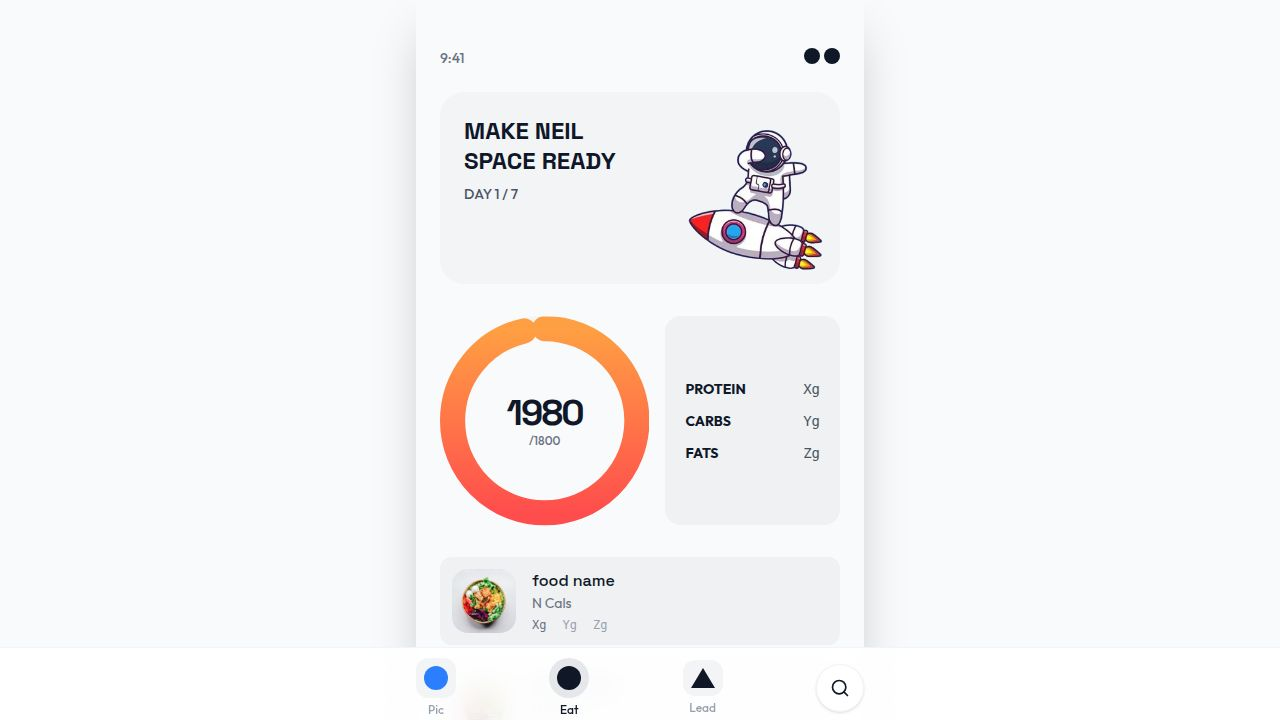
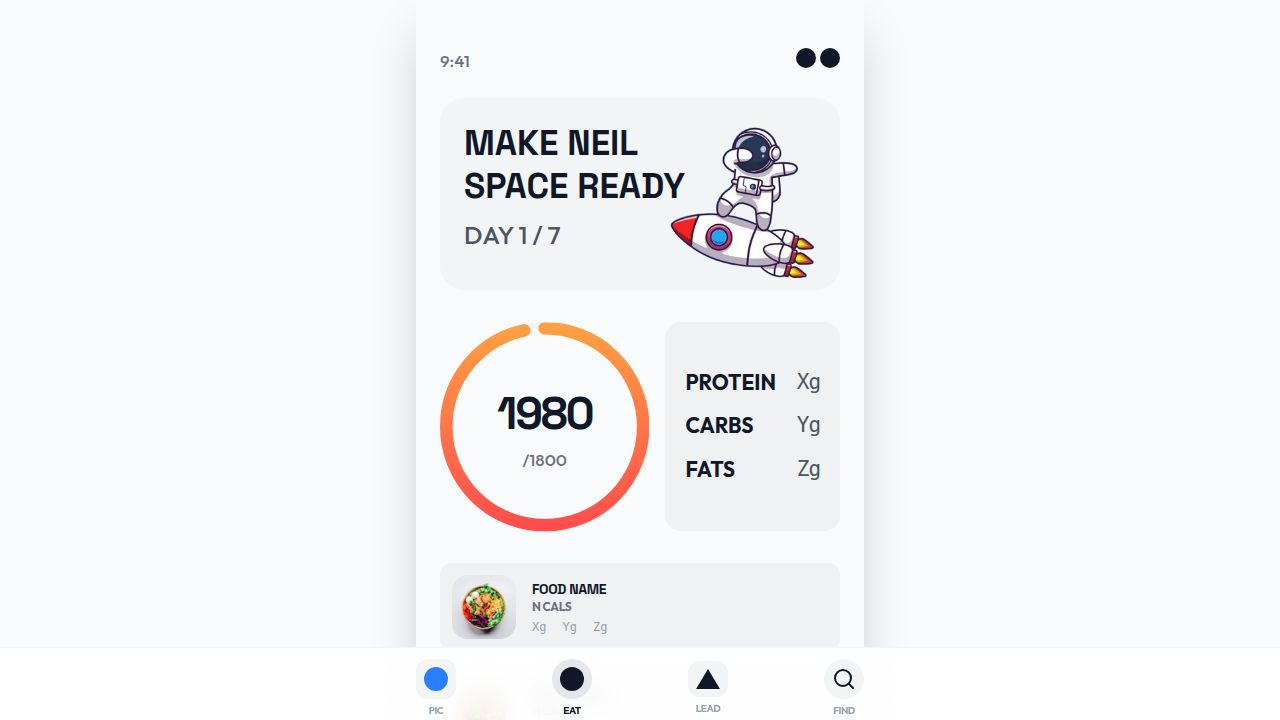
Increase text sizes and scale astronaut to match calorie ring
Update font sizes for key headers, macronutrients, and calorie indicators on the home page, and adjust the astronaut's size to align with the calorie ring.

Replit-Commit-Author: Agent
Replit-Commit-Session-Id: 4d0cfeb5-3eb1-4dbc-bee7-5a7defe6f9c4
Replit-Commit-Checkpoint-Type: full_checkpoint
Replit-Commit-Event-Id: fd141c70-e349-4e3c-b390-6372ab5364bb
Replit-Commit-Screenshot-Url: https://storage.googleapis.com/screenshot-production-us-central1/33be1d1f-940d-45db-88c5-0670a6a43629/4d0cfeb5-3eb1-4dbc-bee7-5a7defe6f9c4/FdHRHuK
Replit-Helium-Checkpoint-Created: true

diff --git a/client/src/pages/home.tsx b/client/src/pages/home.tsx
@@ -22,12 +22,12 @@ export default function Home() {
           className="bg-gray-100 rounded-3xl p-6 relative overflow-hidden mb-8 h-48"
         >
           <div className="relative z-10 w-2/3">
-            <h1 className="text-[27px] font-bold font-display uppercase leading-tight mb-2">
+            <h1 className="text-[35px] font-bold font-display uppercase leading-tight mb-2">
               Make Neil<br />Space Ready
             </h1>
-            <p className="text-[17px] font-medium text-gray-600">DAY 1 / 7</p>
+            <p className="text-[25px] font-medium text-gray-600">DAY 1 / 7</p>
           </div>
-          <div className="absolute right-[-15px] bottom-[-25px] w-48 h-48 z-0">
+          <div className="absolute right-[-15px] bottom-[-25px] w-56 h-56 z-0">
              <img src={astronautRocket} alt="Astronaut" className="w-full h-full object-contain" />
           </div>
         </motion.div>
@@ -62,8 +62,8 @@ export default function Home() {
                </defs>
              </svg>
              <div className="text-center z-10">
-               <div className="text-[43px] font-bold font-display tracking-tighter">1980</div>
-               <div className="text-[15px] text-gray-500 font-medium">/1800</div>
+               <div className="text-[45px] font-bold font-display tracking-tighter">1980</div>
+               <div className="text-[17px] text-gray-500 font-medium">/1800</div>
              </div>
           </motion.div>
 
@@ -75,16 +75,16 @@ export default function Home() {
              className="bg-gray-200/50 rounded-2xl p-5 flex flex-col justify-center space-y-3"
           >
             <div className="flex justify-between items-center">
-              <span className="font-bold text-[17px]">PROTEIN</span>
-              <span className="text-gray-600 text-[17px] font-mono tracking-tighter">Xg</span>
+              <span className="font-bold text-[21px]">PROTEIN</span>
+              <span className="text-gray-600 text-[21px] font-mono tracking-tighter">Xg</span>
             </div>
              <div className="flex justify-between items-center">
-              <span className="font-bold text-[17px]">CARBS</span>
-              <span className="text-gray-600 text-[17px] font-mono tracking-tighter">Yg</span>
+              <span className="font-bold text-[21px]">CARBS</span>
+              <span className="text-gray-600 text-[21px] font-mono tracking-tighter">Yg</span>
             </div>
              <div className="flex justify-between items-center">
-              <span className="font-bold text-[17px]">FATS</span>
-              <span className="text-gray-600 text-[17px] font-mono tracking-tighter">Zg</span>
+              <span className="font-bold text-[21px]">FATS</span>
+              <span className="text-gray-600 text-[21px] font-mono tracking-tighter">Zg</span>
             </div>
           </motion.div>
         </div>
